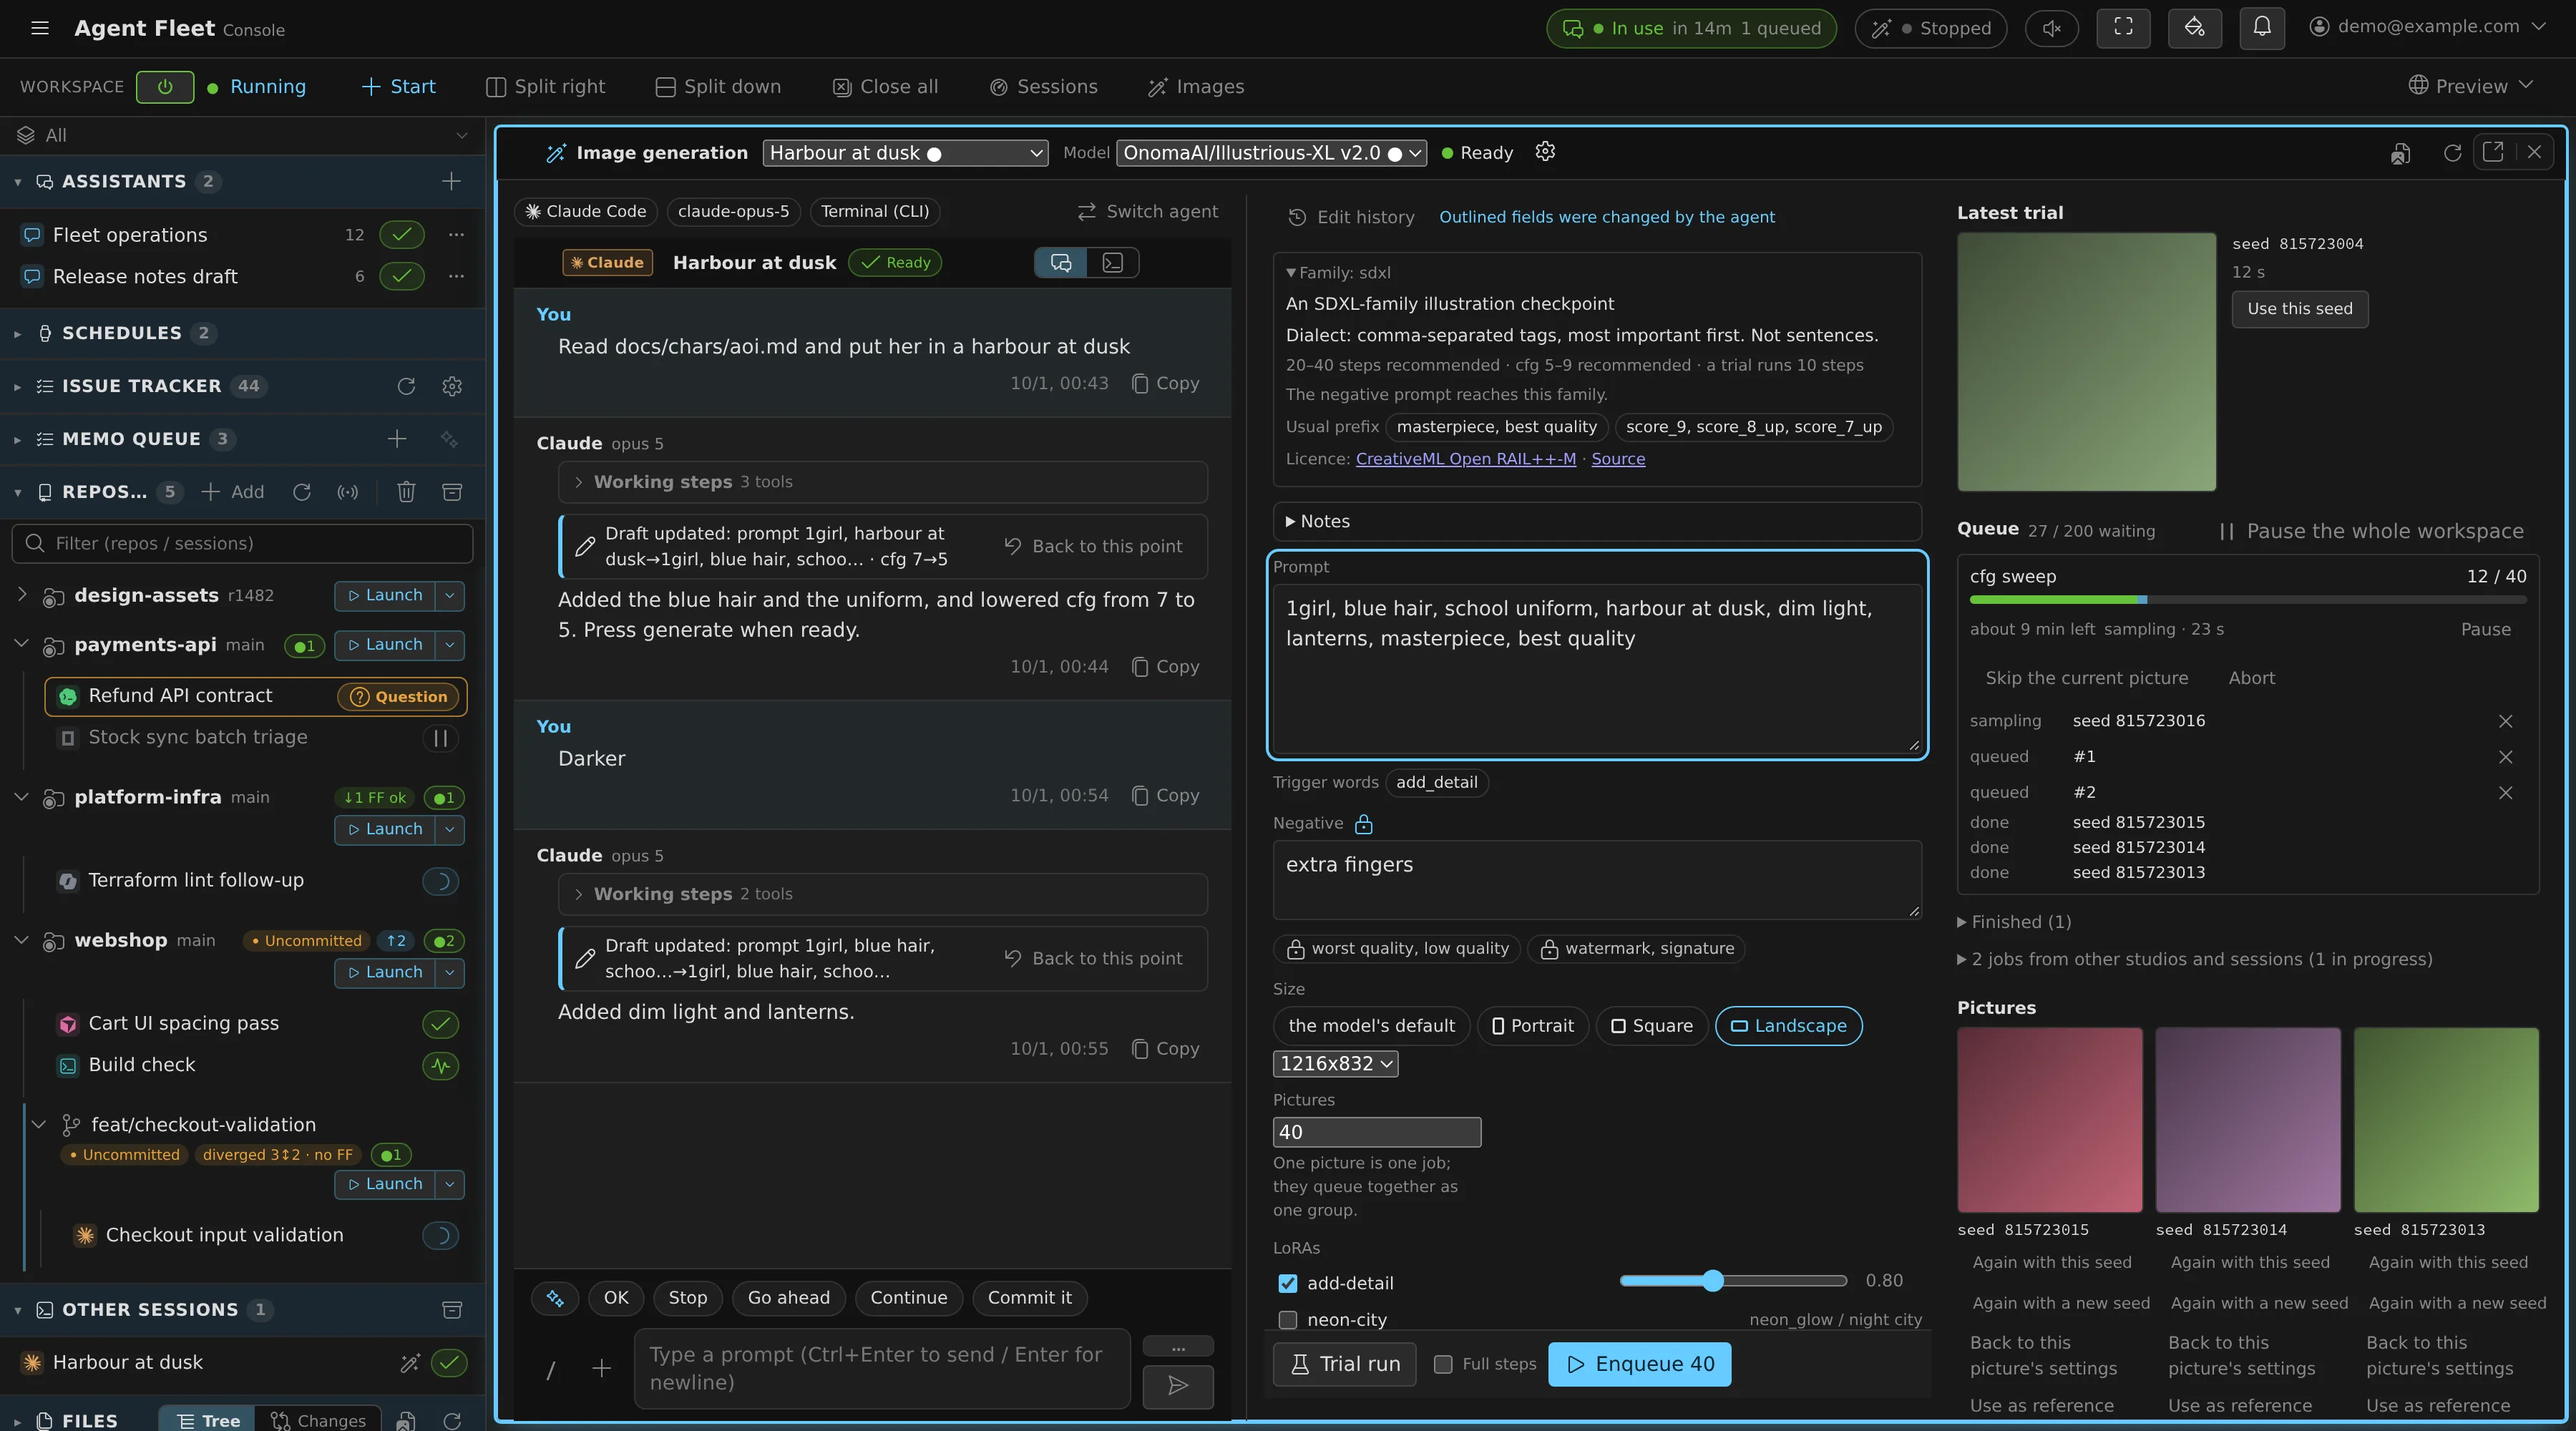
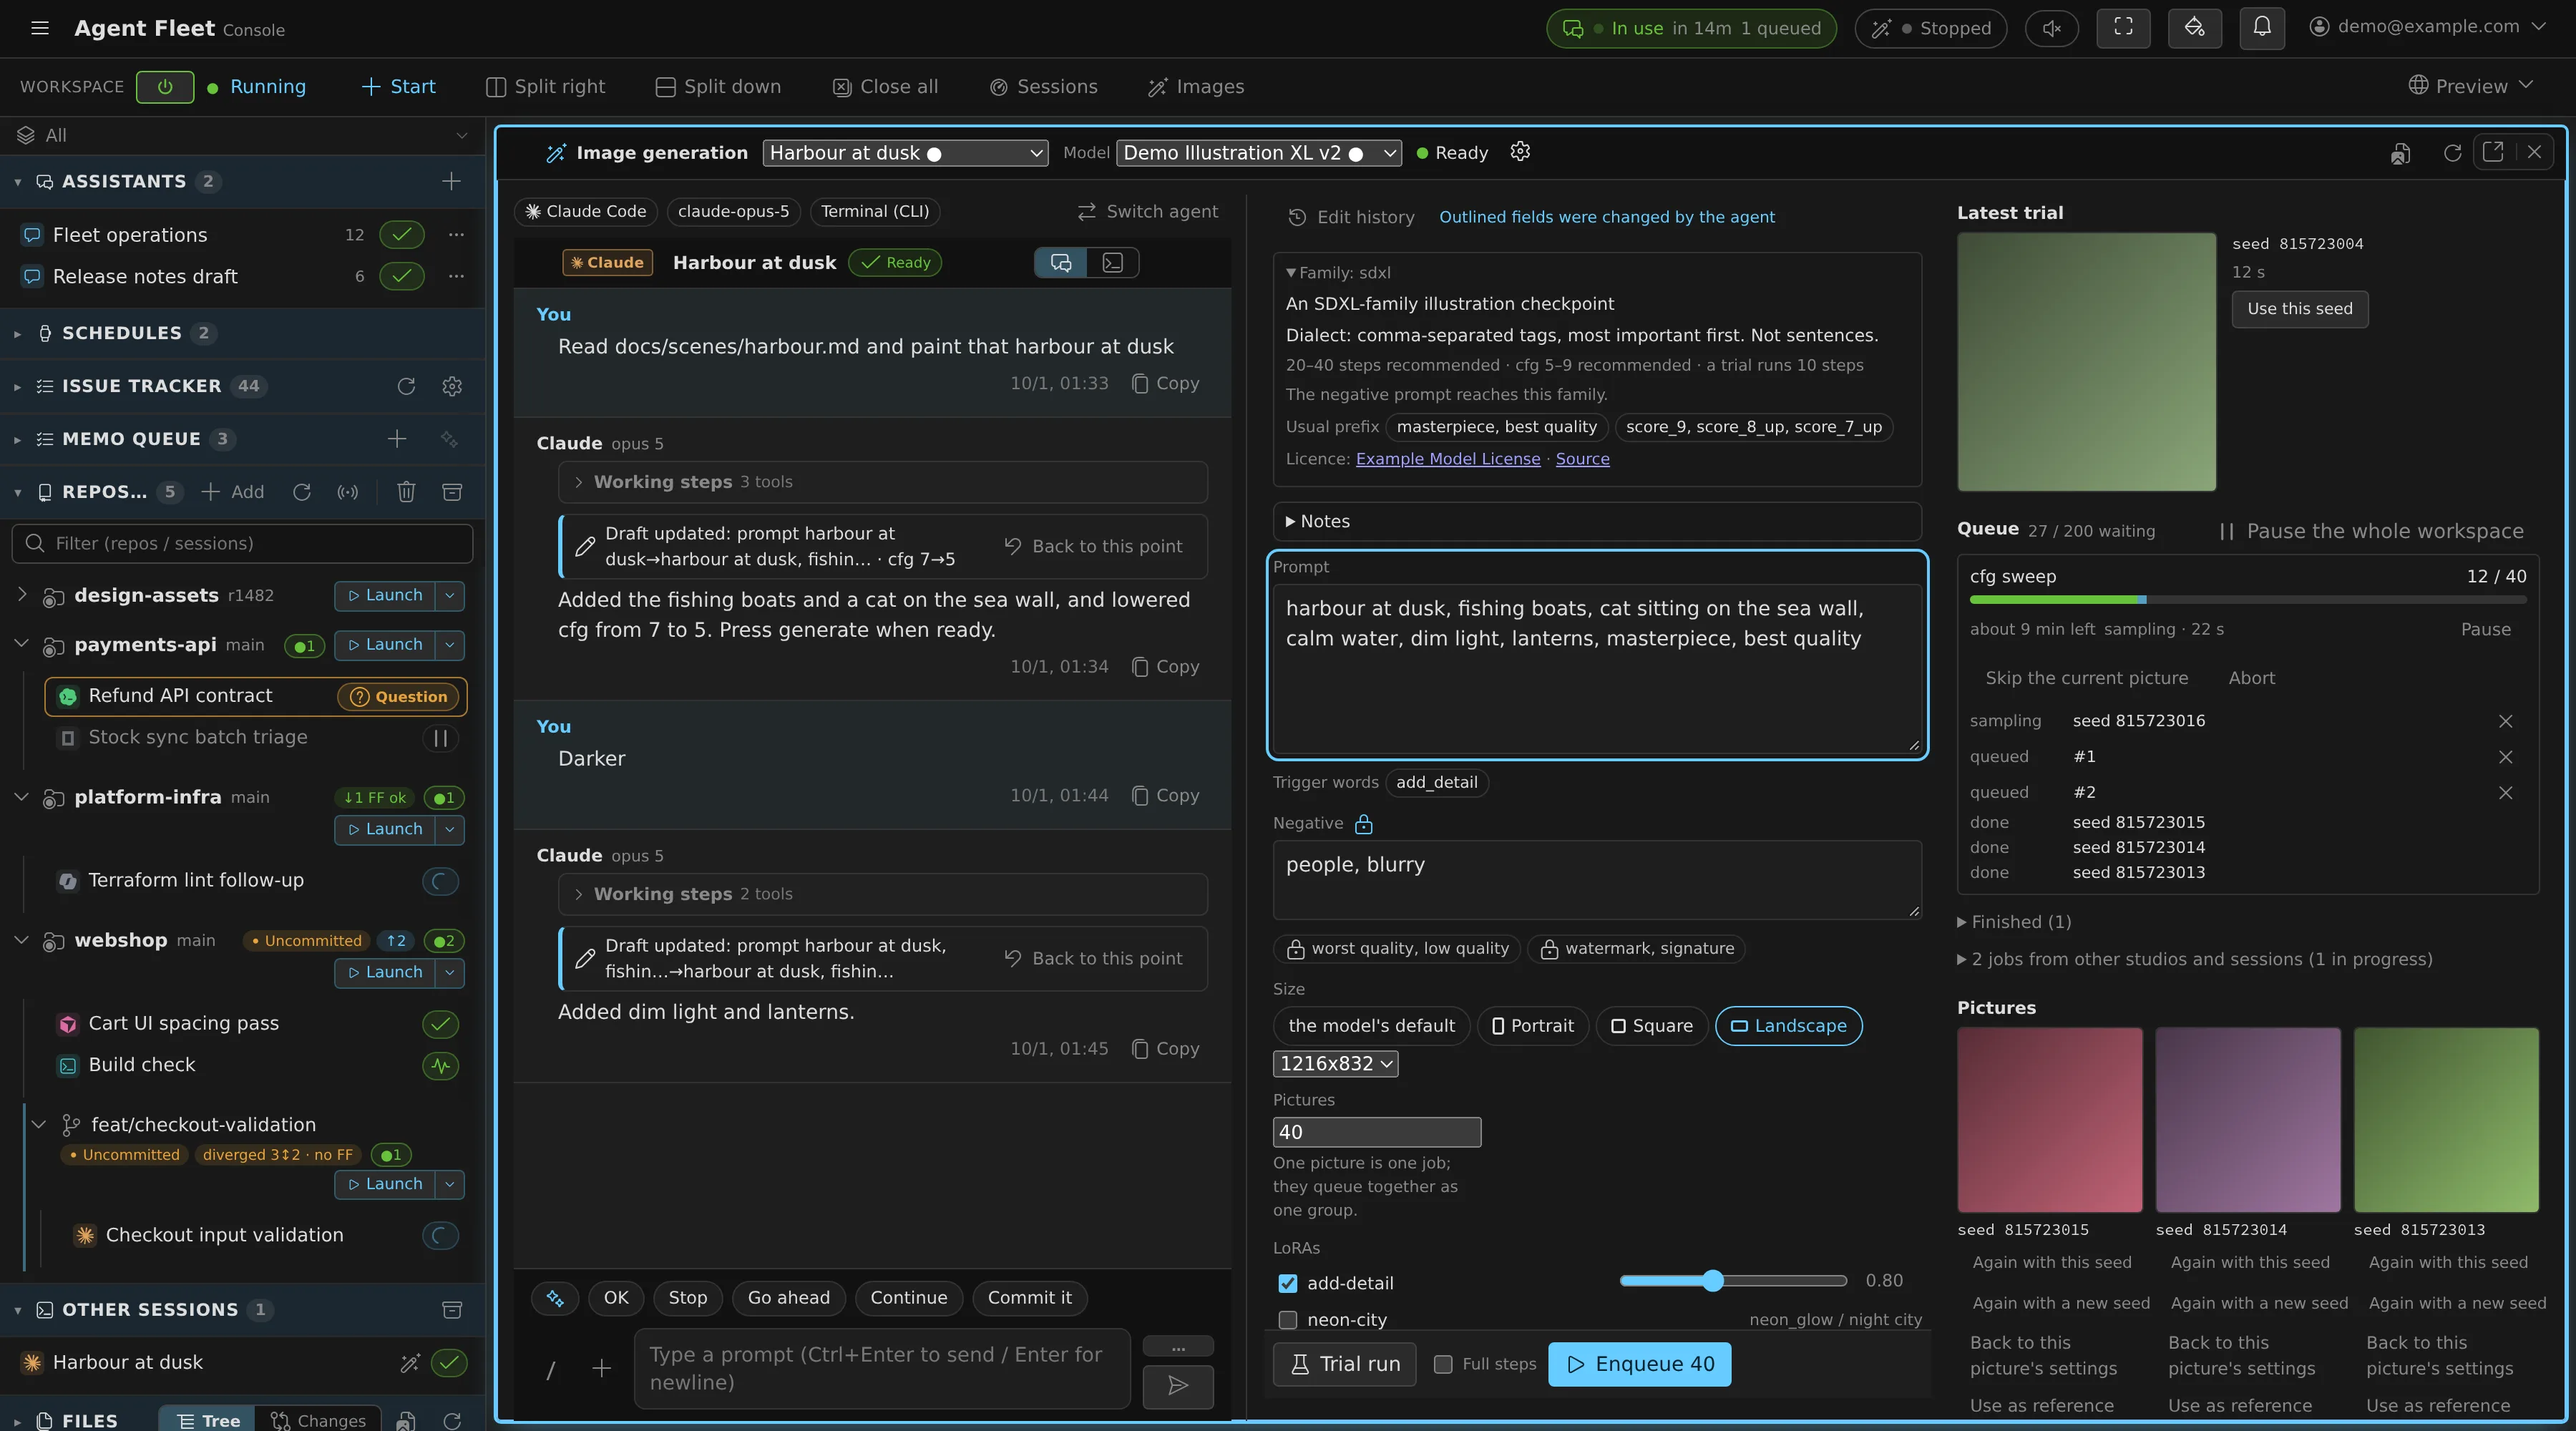
fix(console): fictional image models and a landscape prompt in the studio shot
The image-generation studio still, published on the agent-fleet.org
features page, showed a real third-party checkpoint by name
(OnomaAI/Illustrious-XL v2.0) next to a licence line that is SDXL's, not
that model's, and a second real model id (flux1-dev) sat in the same
engine fixture. A real name beside a licence claim reads as an
endorsement and as a statement about someone else's licence, and it
broke the harness's own rule that every fixture is fictional. The prompt
and the scripted conversation were also a character illustration, which
the page does not want to lead with.

The models are now invented (Demo Illustration XL v2 under an Example
Model License, and Demo Sentence Model); the family ids sdxl / flux1 stay,
because they are Agent Fleet's own. The studio now paints a harbour at
dusk with fishing boats and a cat on the sea wall: the request, the
agent's replies, the draft, its edit history and the picture's recorded
settings all follow. The shots README names third-party models under
"Everything is fictional".

Verified: capture.mjs --only imagegen succeeds in en and ja (3600x2000
each, the same size as before); both stills show the new model name,
licence, prompt and conversation, and grep finds no Illustrious, OnomaAI,
flux1-dev, CreativeML or 1girl left in the harness.

diff --git a/console/scripts/shots/README.md b/console/scripts/shots/README.md
@@ -35,7 +35,10 @@ node console/scripts/shots/capture.mjs --locale en
 - **Everything is fictional.** Invented repo names, session titles, commits, authors
   and a scripted conversation, under `demo@example.com` / tenant `demo`. Never point
   this at a real fleet — published screenshots must not carry a tenant name, an
-  address, a private repo, or an agent account's usage numbers.
+  address, a private repo, or an agent account's usage numbers. That covers third-party
+  image models too: a real checkpoint's name beside a licence line reads as an endorsement
+  and a licence claim, so the studio's models are invented (`sdxl` / `flux1` are Agent
+  Fleet's own family ids and stay).
 - Fixture shapes follow the real wire contracts (`console/src/types/session.ts`,
   `console/src/features/repos/store.ts`,
   `workspace/agent/internal/transcript/transcript.go`, `console/src/lib/gitgraph.ts`).
